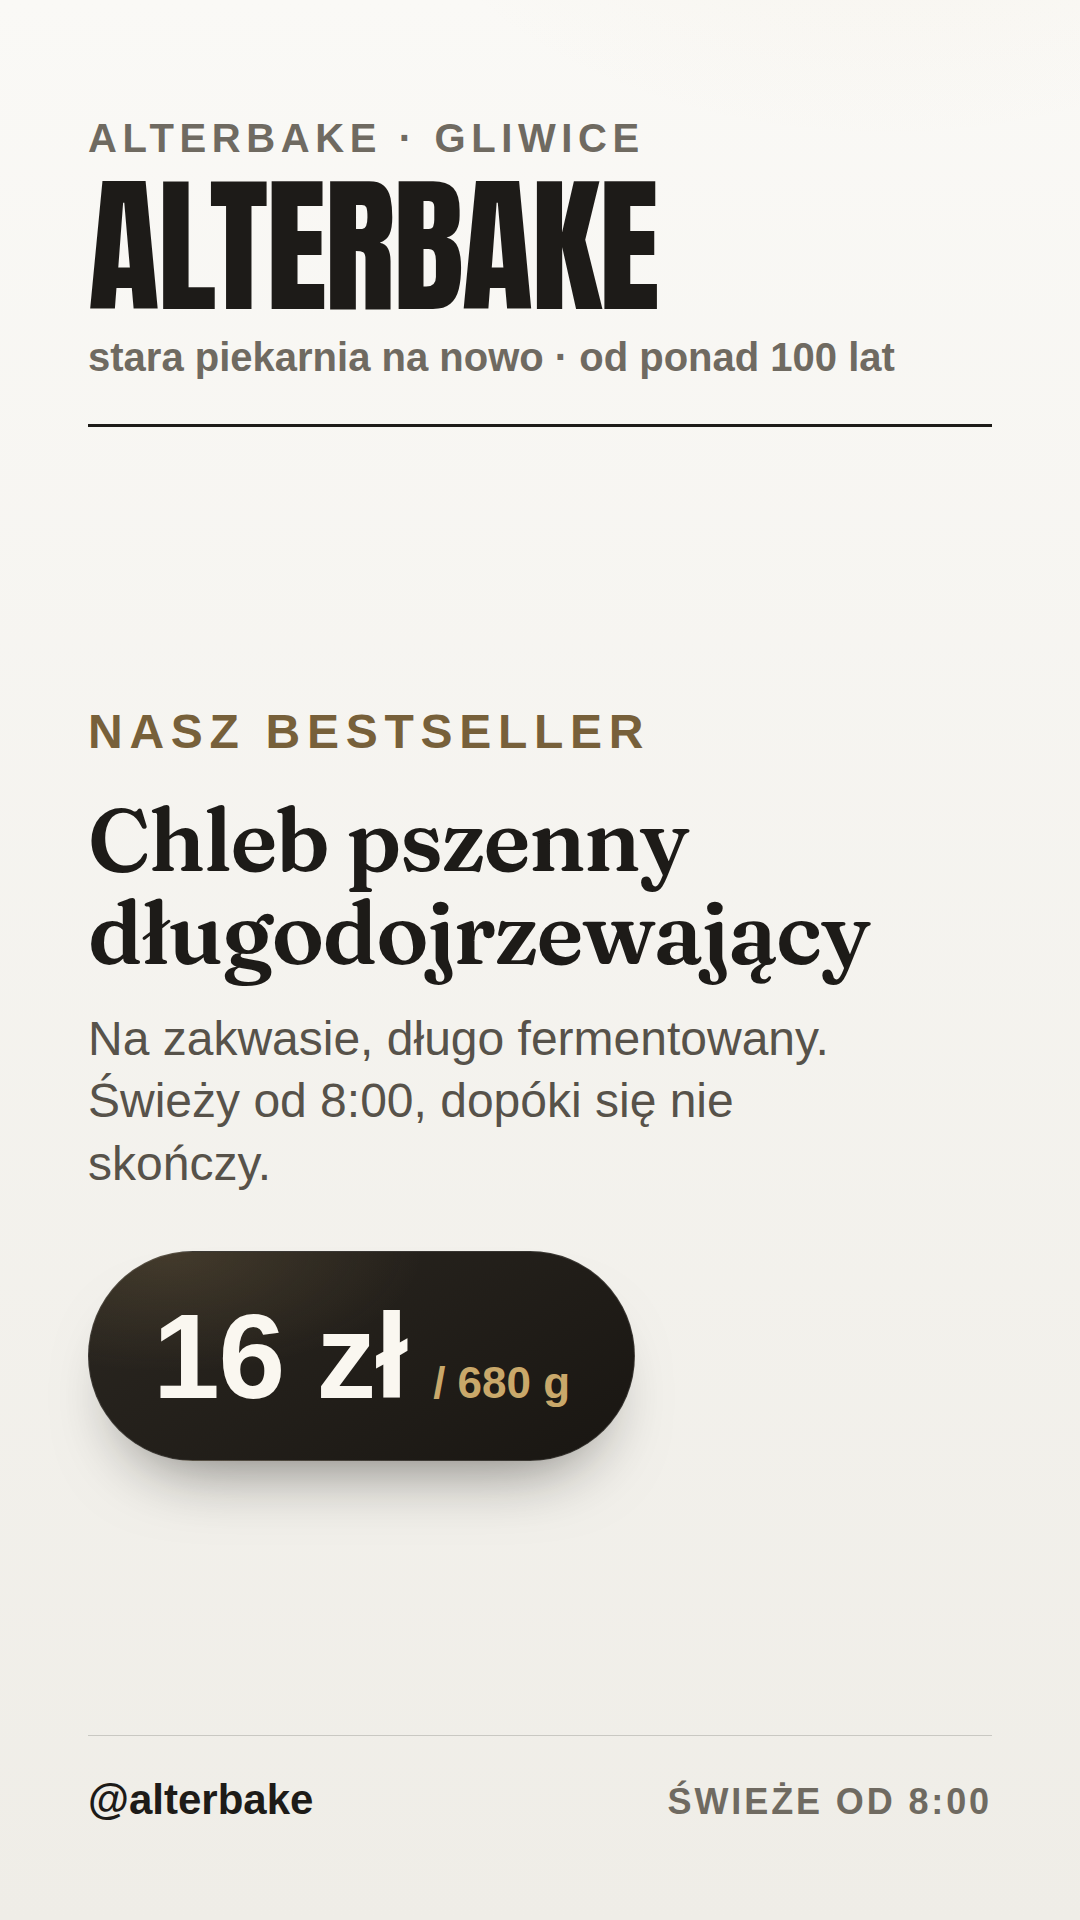
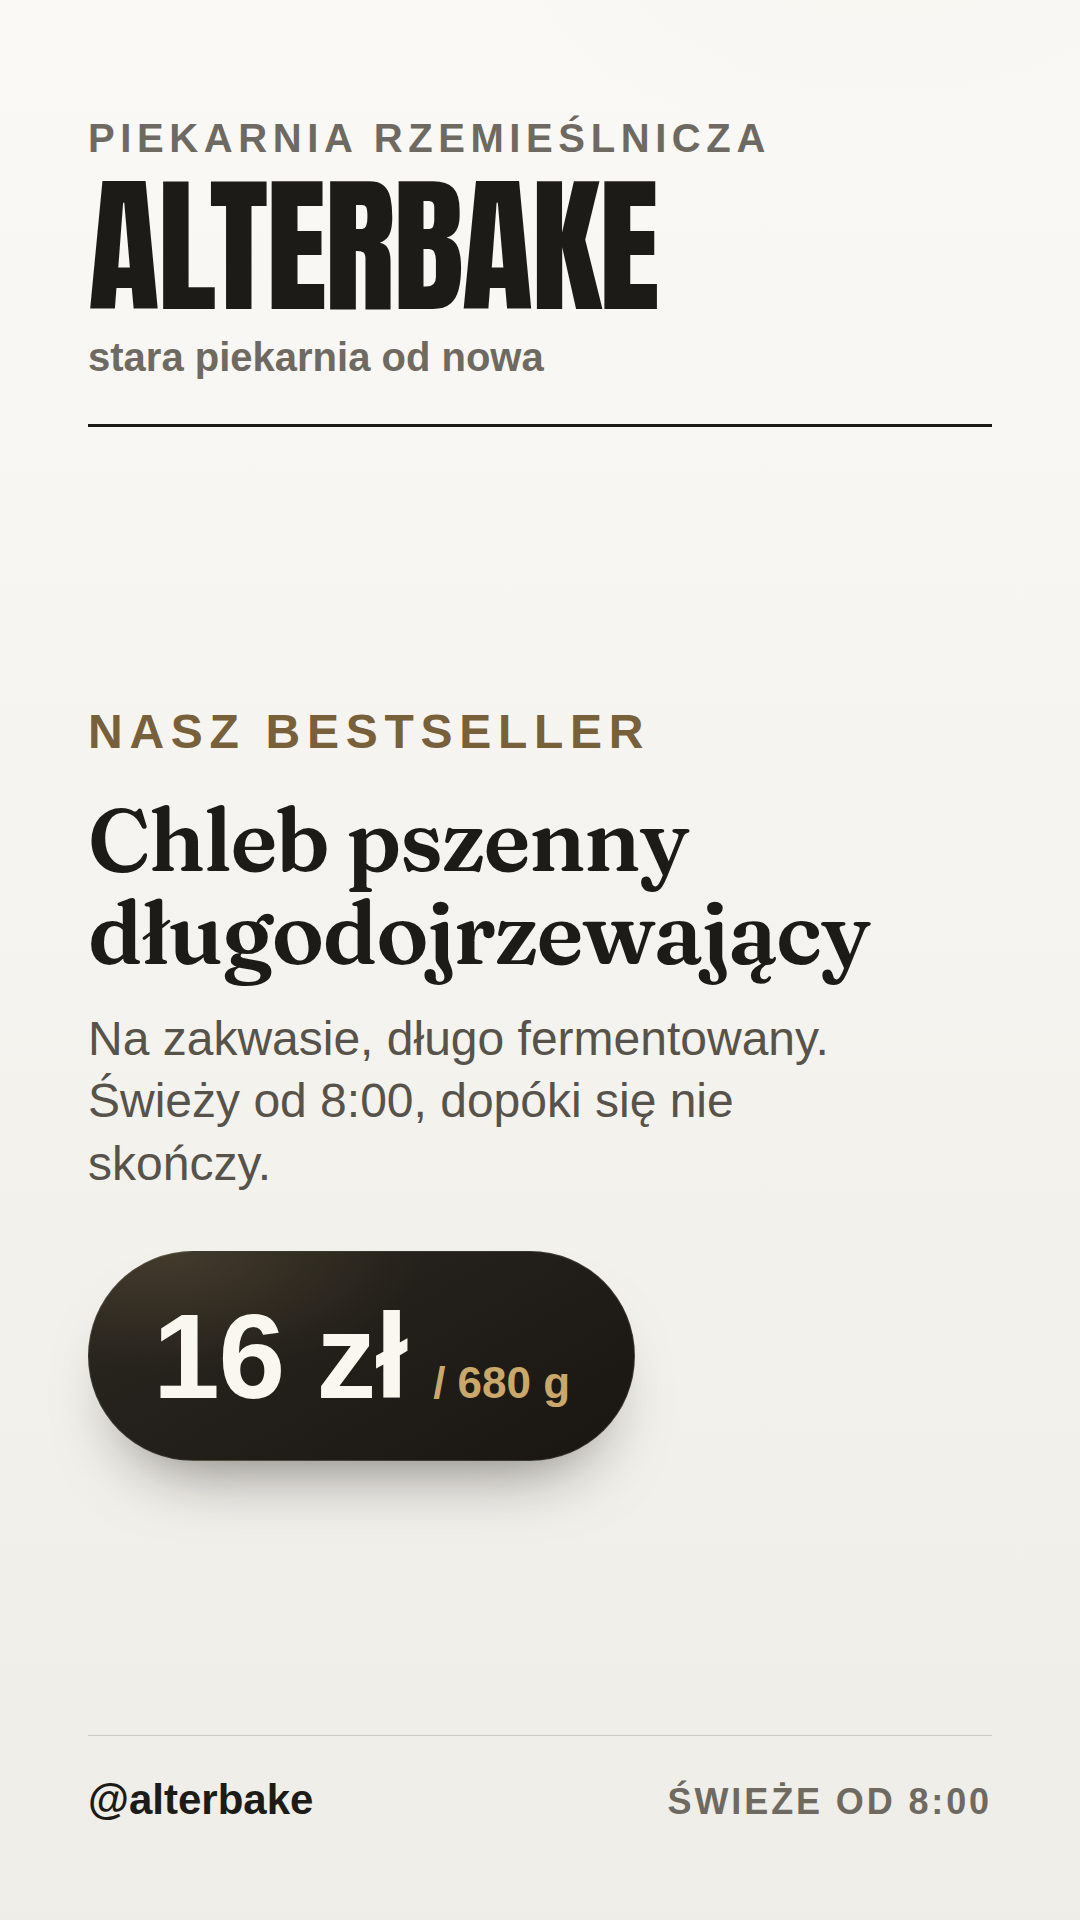
Nowy lockup marki: PIEKARNIA RZEMIESLNICZA / ALTERBAKE / stara piekarnia od nowa
Kicker nad logotypem mowi czym jestesmy (piekarnia rzemieslnicza),
tagline pod logotypem skraca sie do "stara piekarnia od nowa".
Zmiana na tablicy, plakacie, ulotce i story (post 1080 nie ma taglinu),
w sloganie JSON-LD i docs/MARKETING.md. Gliwice zostaja w stopce
(ZAKWAS - CZAS - GLIWICE) i danych schema.org. Przerenderowane PNG,
odswiezone snapshoty.

Claude-Session: https://claude.ai/code/session_017TcL88JYi29BcGxHcZDwDM

diff --git a/index.html b/index.html
@@ -18,7 +18,7 @@
       "@context": "https://schema.org",
       "@type": "Bakery",
       "name": "AlterBake",
-      "slogan": "stara piekarnia na nowo - od ponad 100 lat",
+      "slogan": "stara piekarnia od nowa",
       "address": {
         "@type": "PostalAddress",
         "addressLocality": "Gliwice",
@@ -35,9 +35,9 @@
     <main class="board" aria-label="Menu AlterBake">
       <header class="masthead">
         <div>
-          <p class="place">ALTERBAKE &middot; GLIWICE</p>
+          <p class="place">PIEKARNIA RZEMIEŚLNICZA</p>
           <h1>AlterBake</h1>
-          <p class="brand-line">stara piekarnia na nowo &middot; od ponad 100 lat</p>
+          <p class="brand-line">stara piekarnia od nowa</p>
         </div>
         <div class="today">
           <span>DZIŚ NA LADZIE</span>

diff --git a/materials/plakat-witryna.html b/materials/plakat-witryna.html
@@ -252,9 +252,9 @@
   </head>
   <body>
     <header class="masthead">
-      <p class="kicker">ALTERBAKE &middot; GLIWICE</p>
+      <p class="kicker">PIEKARNIA RZEMIEŚLNICZA</p>
       <h1>AlterBake</h1>
-      <p class="sub">stara piekarnia na nowo &middot; od ponad 100 lat</p>
+      <p class="sub">stara piekarnia od nowa</p>
     </header>
 
     <section class="hero">

diff --git a/materials/social-story.html b/materials/social-story.html
@@ -202,9 +202,9 @@
   </head>
   <body>
     <header class="masthead">
-      <p class="kicker">ALTERBAKE &middot; GLIWICE</p>
+      <p class="kicker">PIEKARNIA RZEMIEŚLNICZA</p>
       <h1>AlterBake</h1>
-      <p>stara piekarnia na nowo &middot; od ponad 100 lat</p>
+      <p>stara piekarnia od nowa</p>
     </header>
 
     <section class="hero">

diff --git a/materials/ulotka-a4.html b/materials/ulotka-a4.html
@@ -279,9 +279,9 @@
   <body>
     <header class="masthead">
       <div>
-        <p class="kicker">ALTERBAKE &middot; GLIWICE</p>
+        <p class="kicker">PIEKARNIA RZEMIEŚLNICZA</p>
         <h1>AlterBake</h1>
-        <p class="brand-line">stara piekarnia na nowo &middot; od ponad 100 lat</p>
+        <p class="brand-line">stara piekarnia od nowa</p>
       </div>
       <div class="today">
         <p class="kicker">DZIŚ NA LADZIE</p>

diff --git a/docs/MARKETING.md b/docs/MARKETING.md
@@ -42,4 +42,4 @@ Bez Node'a: otwórz szablon w przeglądarce i zrób zrzut ekranu.
 - Styl "bakery bold editorial": czarny tusz `#1d1b18` na ciepłym papierze `#f6f4ee`, akcent szampański `#c9a86a`, ciepła szarość `#6f6a61`. Ramki zamiast cieni, płaskie karty.
 - Tablica: logotyp ALTERBAKE w Antonie (wysoki, wąski grotesk), nagłówki kategorii w Archivo Black, reszta czcionką systemową. Materiały drukowane: Fraunces (szeryf displayowy). Wszystkie fonty lokalnie w `fonts/`, licencje SIL OFL.
 - Ceny zawsze w formacie `12 zł` + jednostka `/ porcja`.
-- Kluczowe hasła: „stara piekarnia na nowo", „od ponad 100 lat", „świeże od 8:00".
+- Kluczowe hasła: „piekarnia rzemieślnicza", „stara piekarnia od nowa", „świeże od 8:00".